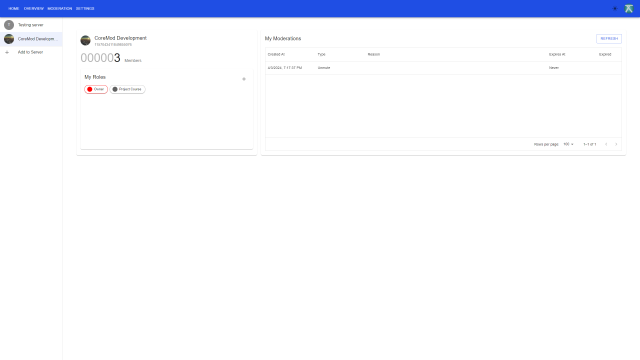
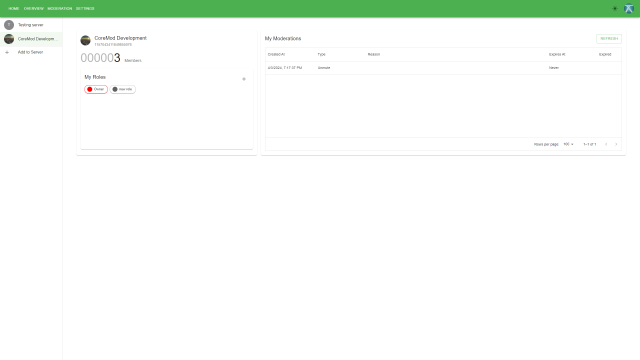
Change color scheme

Changed region(s): [[0.0, 0.0, 1.0, 0.0611], [0.9375, 0.0917, 0.9688, 0.1222], [0.1875, 0.2444, 0.2188, 0.275]]

diff --git a/src/ReactUi/src/App.tsx b/src/ReactUi/src/App.tsx
@@ -11,6 +11,7 @@ import Moderation from './pages/panel/Moderation'
 import { LocalizationProvider } from '@mui/x-date-pickers'
 import { AdapterDayjs } from '@mui/x-date-pickers/AdapterDayjs'
 import { SnackbarProvider } from 'notistack'
+import { green } from '@mui/material/colors'
 const Panel = React.lazy(() => import('./pages/panel/Panel'))
 
 const App = () => {
@@ -30,21 +31,10 @@ const App = () => {
               ? 'dark'
               : 'light' ?? 'system',
           primary: {
-            900: '#0017af',
-            800: '#002fc1',
-            700: '#003acc',
-            600: '#1845d8',
-            500: '#1f4ee4',
-            400: '#4e6aea',
-            300: '#7286ee',
-            200: '#9ea8f2',
-            100: '#c5caf7',
-            50: '#e8eafc',
+            main: green[500],
           },
           secondary: {
-            main: '#00dbff',
-            dark: '#00a4c7',
-            light: '#73e6ff',
+            main: green[500],
           },
         },
       }),
